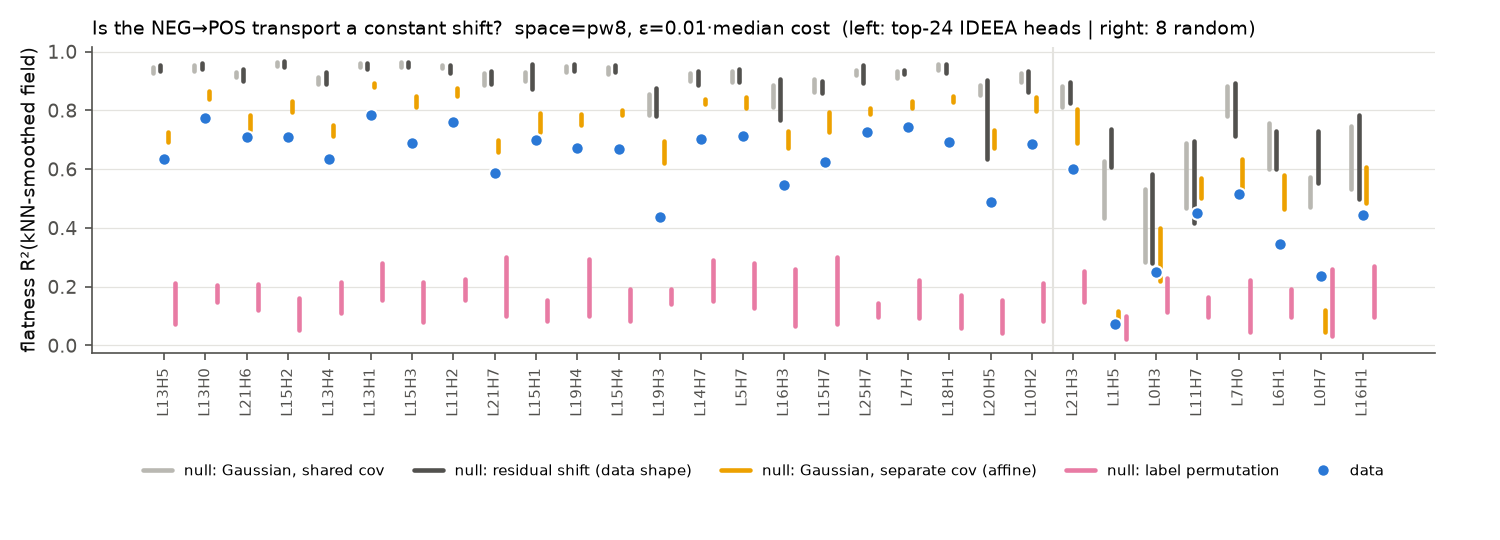
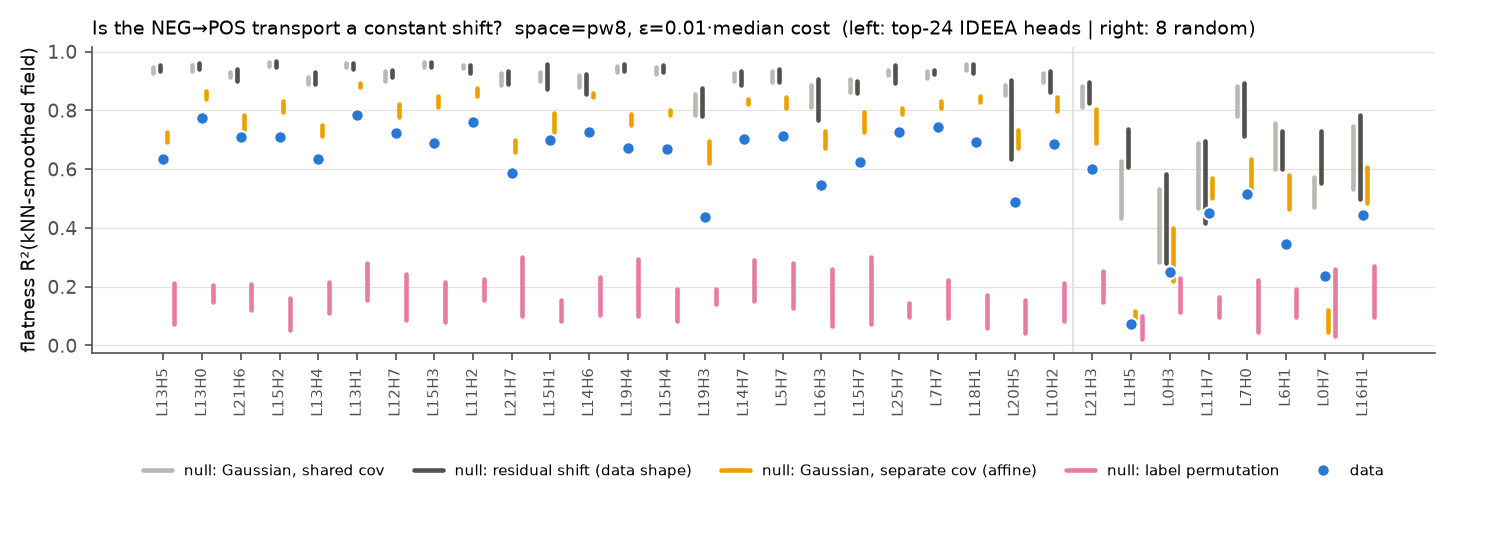
OT/trait-flow geometry: re-aggregate with all 64 outputs per array (pw8 geo 17/24)

diff --git a/results/ot_geometry.md b/results/ot_geometry.md
@@ -165,7 +165,7 @@ What this column shows:
 - Held-out predictors of the OT displacement: kNN-local .39, Δμ .22, IDEEA npn/min_perp .19.
   - Under the R-shift null the kNN-local and Δμ predictors score .42 / .34, so the kNN advantage is partly smoothing.
   - IDEEA beats Δμ on 0/24 heads.
-- The geodesic/Euclid ratio is degenerate in 256-d (1.00); in pw8 it is 1.24 vs 1.00.
+- The geodesic/Euclid ratio is degenerate in 256-d (1.00); in pw8 it is 1.24 vs 1.00 (curved on 17/24 heads).
 - Power (synthetic, real n): R²_s50 detects a mode-dependent field at |Δμ| = 3 when the field's true R² ≤ 0.85. At |Δμ| = 1 it gave 1/4 false positives.
 
 ## Post-hoc: question pairing (not preregistered)
